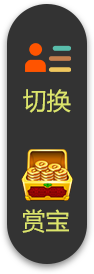
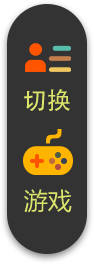
x

diff --git a/src/js/tpl/maparea.tpl.js b/src/js/tpl/maparea.tpl.js
@@ -1,2 +1,2 @@
-/*TMODJS:{"version":183,"md5":"e6558094a2df26d956cdf676e52fa3f2"}*/
-template("E:/wamp/www/Jeremy/2017xiyou/cbd1024/es6-zepto-test/src/js/tpl/maparea",function(a){"use strict";var b=this,c=(b.$helpers,b.$each),d=a.dataarr,e=(a.vrr,a.irr,a.v,a.i,b.$escape),f=a.Math,g="";return c(d,function(a,b){g+=' <div class="area-wrap-block"> ',c(a,function(a){g+=" <div build_type=",g+=e(a.build_type),g+=" land_id=",g+=e(a.land_id),g+=" uid=",g+=e(a.uid),g+=' class="area-unit ',a.build_type>0&&(g+=" build "),g+='" > ',1==a.build_type?g+=' <img class="shop t71" src="/mex/cbd/img/page/cbd/shop-71.png"/> ':2==a.build_type?g+=' <img class="shop thg" src="/mex/cbd/img/page/cbd/shop-hg.png"/> ':3==a.build_type?g+=' <img class="shop tmv" src="/mex/cbd/img/page/cbd/shop-mv.png"/> ':4==a.build_type?g+=' <img class="shop tcs" src="/mex/cbd/img/page/cbd/shop-cs.png"/> ':5==a.build_type&&(g+=' <img class="shop t4s" src="/mex/cbd/img/page/cbd/shop-4s.png"/> '),g+=" </div> "}),g+=" ",0==b%2?g+=' <div class="topdown-wrap carmovedown topadapt2 pt-delay4"> <img class="car-rd1 car carmoveright pt-delay4 " src="/mex/cbd/img/decoration/car-rd1.png" alt=""> </div> <div class="topdown-wrap carmovedown topadapt1 pt-delay8"> <img class="car-ld1 car carmoveleft pt-delay8" src="/mex/cbd/img/decoration/car-ld1.png" alt=""> </div> ':(g+=' <div class="topdown-wrap carmovetop topadapt1 pt-delay6"> <img class="car-rt',g+=e(f.ceil(b/2)%3+1),g+=' car carmoveright pt-delay6" src="/mex/cbd/img/decoration/car-rt',g+=e(f.ceil(b/2)%3+1),g+='.png" alt=""> </div> <div class="topdown-wrap carmovetop topadapt1"> <img class="car-lt',g+=e(f.ceil(b/2)%2+1),g+=' car carmoveleft" src="/mex/cbd/img/decoration/car-lt',g+=e(f.ceil(b/2)%2+1),g+='.png" alt=""> </div> '),g+=' <div class="street-block-add"></div> </div> '}),new String(g)});
+/*TMODJS:{"version":184,"md5":"e6558094a2df26d956cdf676e52fa3f2"}*/
+template("E:/wamp/www/Jeremy/panya/newweb/cbd/es6-zepto-test/src/js/tpl/maparea",function(a){"use strict";var b=this,c=(b.$helpers,b.$each),d=a.dataarr,e=(a.vrr,a.irr,a.v,a.i,b.$escape),f=a.Math,g="";return c(d,function(a,b){g+=' <div class="area-wrap-block"> ',c(a,function(a){g+=" <div build_type=",g+=e(a.build_type),g+=" land_id=",g+=e(a.land_id),g+=" uid=",g+=e(a.uid),g+=' class="area-unit ',a.build_type>0&&(g+=" build "),g+='" > ',1==a.build_type?g+=' <img class="shop t71" src="/mex/cbd/img/page/cbd/shop-71.png"/> ':2==a.build_type?g+=' <img class="shop thg" src="/mex/cbd/img/page/cbd/shop-hg.png"/> ':3==a.build_type?g+=' <img class="shop tmv" src="/mex/cbd/img/page/cbd/shop-mv.png"/> ':4==a.build_type?g+=' <img class="shop tcs" src="/mex/cbd/img/page/cbd/shop-cs.png"/> ':5==a.build_type&&(g+=' <img class="shop t4s" src="/mex/cbd/img/page/cbd/shop-4s.png"/> '),g+=" </div> "}),g+=" ",0==b%2?g+=' <div class="topdown-wrap carmovedown topadapt2 pt-delay4"> <img class="car-rd1 car carmoveright pt-delay4 " src="/mex/cbd/img/decoration/car-rd1.png" alt=""> </div> <div class="topdown-wrap carmovedown topadapt1 pt-delay8"> <img class="car-ld1 car carmoveleft pt-delay8" src="/mex/cbd/img/decoration/car-ld1.png" alt=""> </div> ':(g+=' <div class="topdown-wrap carmovetop topadapt1 pt-delay6"> <img class="car-rt',g+=e(f.ceil(b/2)%3+1),g+=' car carmoveright pt-delay6" src="/mex/cbd/img/decoration/car-rt',g+=e(f.ceil(b/2)%3+1),g+='.png" alt=""> </div> <div class="topdown-wrap carmovetop topadapt1"> <img class="car-lt',g+=e(f.ceil(b/2)%2+1),g+=' car carmoveleft" src="/mex/cbd/img/decoration/car-lt',g+=e(f.ceil(b/2)%2+1),g+='.png" alt=""> </div> '),g+=' <div class="street-block-add"></div> </div> '}),new String(g)});

diff --git a/src/js/tpl/salelist.tpl.js b/src/js/tpl/salelist.tpl.js
@@ -1,2 +1,2 @@
-/*TMODJS:{"version":139,"md5":"102108bdd39b6203fd4f11f437ff8b9d"}*/
-template("E:/wamp/www/Jeremy/2017xiyou/cbd1024/es6-zepto-test/src/js/tpl/salelist",function(a){"use strict";var b=this,c=(b.$helpers,b.$each),d=a.data,e=(a.v,a.i,b.$escape),f="";return c(d,function(a){f+=' <li> <span class="desc">',f+=e(a.content),f+="</span> ",a.type>0?(f+=' <span class="num red">+',f+=e(a.je),f+="</span> "):(f+=' <span class="num green">-',f+=e(a.je),f+="</span> "),f+=" ","\u63d0\u73b0"==a.state?(f+=' <a href="javascript:;" data-aliurl = "',f+=e(a.alipay_tx_url),f+='" data-txurl = "',f+=e(a.tx_url),f+='" class="state tixian js-list-tixian">',f+=e(a.state),f+="</a> "):(f+=' <span class="state yellow">',f+=e(a.state),f+="</span> "),f+=" </li> "}),new String(f)});
+/*TMODJS:{"version":140,"md5":"102108bdd39b6203fd4f11f437ff8b9d"}*/
+template("E:/wamp/www/Jeremy/panya/newweb/cbd/es6-zepto-test/src/js/tpl/salelist",function(a){"use strict";var b=this,c=(b.$helpers,b.$each),d=a.data,e=(a.v,a.i,b.$escape),f="";return c(d,function(a){f+=' <li> <span class="desc">',f+=e(a.content),f+="</span> ",a.type>0?(f+=' <span class="num red">+',f+=e(a.je),f+="</span> "):(f+=' <span class="num green">-',f+=e(a.je),f+="</span> "),f+=" ","\u63d0\u73b0"==a.state?(f+=' <a href="javascript:;" data-aliurl = "',f+=e(a.alipay_tx_url),f+='" data-txurl = "',f+=e(a.tx_url),f+='" class="state tixian js-list-tixian">',f+=e(a.state),f+="</a> "):(f+=' <span class="state yellow">',f+=e(a.state),f+="</span> "),f+=" </li> "}),new String(f)});

diff --git a/src/js/tpl/fanlist.tpl.js b/src/js/tpl/fanlist.tpl.js
@@ -1,2 +1,2 @@
-/*TMODJS:{"version":141,"md5":"c94b699f72104969a9fe8ec56de03cc7"}*/
-template("E:/wamp/www/Jeremy/2017xiyou/cbd1024/es6-zepto-test/src/js/tpl/fanlist",function(a){"use strict";var b=this,c=(b.$helpers,b.$each),d=a.data,e=(a.v,a.i,b.$escape),f="";return c(d,function(a){f+=' <li> <img class="fl-avatar" src="',f+=e(a.headimgurl),f+='" alt=""> <div class="fl-name">',f+=e(a.nickname||"\u8fd8\u6ca1\u540d\u5b57"),f+="</div> ",1==a.is_vip&&(f+=' <div class="fl-vip">VIP</div> '),f+=" </li> "}),new String(f)});
+/*TMODJS:{"version":142,"md5":"c94b699f72104969a9fe8ec56de03cc7"}*/
+template("E:/wamp/www/Jeremy/panya/newweb/cbd/es6-zepto-test/src/js/tpl/fanlist",function(a){"use strict";var b=this,c=(b.$helpers,b.$each),d=a.data,e=(a.v,a.i,b.$escape),f="";return c(d,function(a){f+=' <li> <img class="fl-avatar" src="',f+=e(a.headimgurl),f+='" alt=""> <div class="fl-name">',f+=e(a.nickname||"\u8fd8\u6ca1\u540d\u5b57"),f+="</div> ",1==a.is_vip&&(f+=' <div class="fl-vip">VIP</div> '),f+=" </li> "}),new String(f)});

diff --git a/src/js/main.js b/src/js/main.js
@@ -546,7 +546,8 @@ var app = {
         });
         /** 骰宝 */
         $('.js-user-saibao').on('click', function(){
-            window.location.href='/app/sb/index';
+            // window.location.href='/app/sb/index';
+            window.location.href = '/app/login_in/game';
         });
         /** 激活按钮 */
         $('.js-active').on('click', function(){
